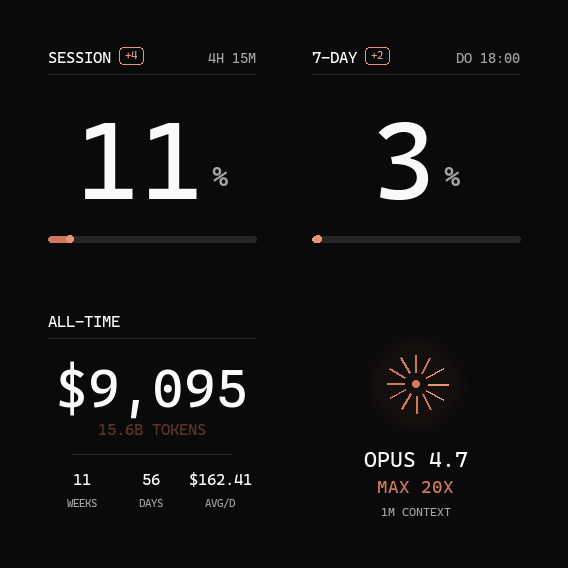
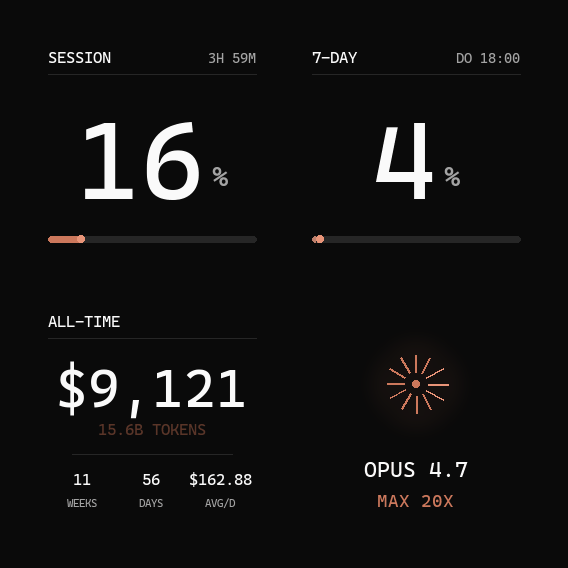
remove '1M CONTEXT' line from claude screen
The context-window line wasn't carrying real information (it was
a hardcoded label) and crowded the bottom of the glyph screen.
Drop it; nudge model + plan down slightly so they sit in the lower
third with more breathing room.

diff --git a/src/screens/claude_info.py b/src/screens/claude_info.py
@@ -91,24 +91,20 @@ def _draw_halo(size: int, cy: int) -> Image.Image:
 
 
 def _draw_text_layer(
-    d: ImageDraw.ImageDraw, model: str, plan: str, context: str
+    d: ImageDraw.ImageDraw, model: str, plan: str
 ) -> None:
     model_font = t.font_bold(22)
     plan_font = t.font_bold(18)
-    ctx_font = t.font(12)
 
     mw = d.textlength(model, font=model_font)
-    d.text(((t.SIZE - mw) // 2, 150), model, font=model_font, fill=t.TEXT)
+    d.text(((t.SIZE - mw) // 2, 160), model, font=model_font, fill=t.TEXT)
 
     pw = d.textlength(plan, font=plan_font)
-    d.text(((t.SIZE - pw) // 2, 180), plan, font=plan_font, fill=t.ACCENT)
-
-    cw = d.textlength(context, font=ctx_font)
-    d.text(((t.SIZE - cw) // 2, 208), context, font=ctx_font, fill=t.TEXT_DIM)
+    d.text(((t.SIZE - pw) // 2, 194), plan, font=plan_font, fill=t.ACCENT)
 
 
 def _render_frame(
-    phase: float, model: str, plan: str, context: str, halo_layer: Image.Image
+    phase: float, model: str, plan: str, halo_layer: Image.Image
 ) -> Image.Image:
     halo_phase = (phase * 0.7) % 1.0
     halo_breath = t.ease_in_out(halo_phase if halo_phase < 0.5 else 1 - halo_phase) * 2
@@ -119,27 +115,26 @@ def _render_frame(
 
     d = ImageDraw.Draw(img)
     _glyph(d, t.SIZE // 2, 88, phase)
-    _draw_text_layer(d, model, plan, context)
+    _draw_text_layer(d, model, plan)
     return img
 
 
-def render(model: str = "OPUS 4.7", context: str = "1M CONTEXT") -> Image.Image:
+def render(model: str = "OPUS 4.7") -> Image.Image:
     plan = _read_plan()
     halo = _draw_halo(t.SIZE, 88)
-    return _render_frame(0.0, model, plan, context, halo)
+    return _render_frame(0.0, model, plan, halo)
 
 
 def render_gif(
     out_path: Path,
     model: str = "OPUS 4.7",
-    context: str = "1M CONTEXT",
     frames: int = 30,
     frame_ms: int = 80,
 ) -> Path:
     plan = _read_plan()
     halo = _draw_halo(t.SIZE, 88)
     imgs = [
-        _render_frame(i / frames, model, plan, context, halo).convert(
+        _render_frame(i / frames, model, plan, halo).convert(
             "P", palette=Image.Palette.ADAPTIVE, colors=64
         )
         for i in range(frames)

diff --git a/render.py b/render.py
@@ -67,7 +67,6 @@ def render_all(out_dir: Path) -> list[Path]:
         claude_info.render_gif(
             out_dir / "claude.gif",
             model="OPUS 4.7",
-            context="1M CONTEXT",
         )
     )
 

diff --git a/README.md b/README.md
@@ -34,7 +34,7 @@ required.**
 | ![Session](docs/screenshots/session.gif) | **SESSION** — your 5-hour usage block percentage. The end-cap of the bar pulses gently. When the value changes between refreshes, a `+N` chip appears next to the label. |
 | ![7-Day](docs/screenshots/weekly.gif) | **7-DAY** — weekly limit across all models. Reset time shows weekday + clock (`DO 18:00`). Same delta-badge behavior as session. |
 | ![All Time](docs/screenshots/alltime.gif) | **ALL-TIME** — cumulative cost, total tokens, weeks active, daily average. The token line subtly shimmers between `ACCENT_DIM` and `ACCENT_BRIGHT` on an eased breath cycle. |
-| ![Claude](docs/screenshots/claude.gif) | **CLAUDE** — your plan tier (read from credentials), model, and context window. The 12 spokes ripple around the ring with phase offsets, creating a soft wave instead of a robotic uniform pulse. The halo breathes on a decoupled rhythm. |
+| ![Claude](docs/screenshots/claude.gif) | **CLAUDE** — your plan tier (read from credentials) and current model. The 12 spokes ripple around the ring with phase offsets, creating a soft wave instead of a robotic uniform pulse. The halo breathes on a decoupled rhythm. |
 
 ## Features
 
